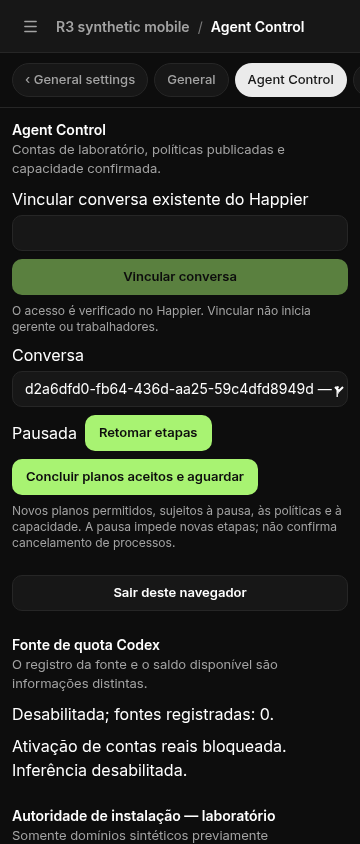
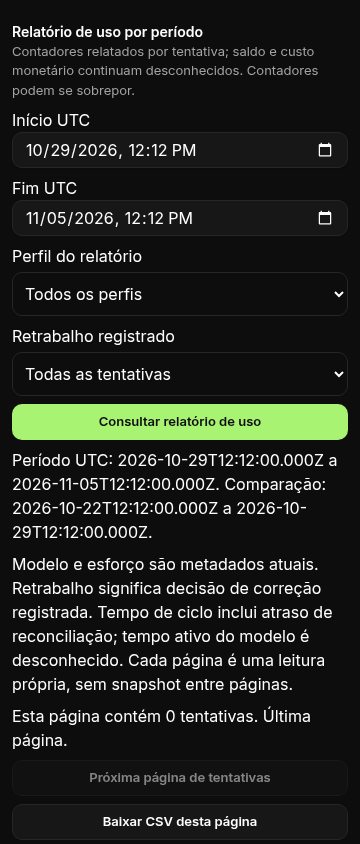
Prove authenticated usage export and bounded latency with restart diagnostics

Changed region(s): [[0.0306, 0.0, 0.9778, 1.0], [0.8861, 0.154, 0.9472, 0.1848], [0.8861, 0.2464, 0.9167, 0.2773]]

diff --git a/upstream/cezar/packages/web/src/routes/settings/agent-control-usage-report.tsx b/upstream/cezar/packages/web/src/routes/settings/agent-control-usage-report.tsx
@@ -8,20 +8,24 @@ import {agentControlFetch} from './agent-control-fetch'
 
 const exact=z.string().regex(/^-?\d+$/)
 const counters=z.object({input:exact.nullable(),output:exact.nullable(),cache:exact.nullable(),reasoning:exact.nullable()})
-const summary=z.object({attempts:z.number().int().nonnegative(),counters:z.record(z.string(),z.object({knownSubtotal:exact,completeTotal:exact.nullable(),knownAttempts:z.number().int().nonnegative(),unknownAttempts:z.number().int().nonnegative()}))})
-const reportSchema=z.object({schemaVersion:z.literal(1),scope:z.literal('reported_attempt_usage_deltas'),subscriptionBalance:z.literal('unknown'),monetaryCost:z.literal('unknown'),overlappingCounters:z.literal(true),profileMetadata:z.literal('current'),reworkDefinition:z.literal('recorded_correction_decision'),contextId:z.string().uuid(),periods:z.object({current:z.object({from:z.string(),to:z.string()}),previous:z.object({from:z.string(),to:z.string()})}),attempts:z.array(z.object({grantId:z.string().uuid(),model:z.string(),effort:z.string(),rework:z.boolean(),baseline:z.string(),counters})),comparison:z.array(z.object({profileId:z.string().uuid(),model:z.string(),effort:z.string(),rework:z.boolean(),current:summary,previous:summary,delta:counters})),nextCursor:z.string().nullable(),page:z.object({limit:z.number().int().positive(),complete:z.boolean()})})
+const summaryCounter=z.object({knownSubtotal:exact,completeTotal:exact.nullable(),knownAttempts:z.number().int().nonnegative(),unknownAttempts:z.number().int().nonnegative()})
+const summary=z.object({wallMilliseconds:summaryCounter.optional(),attempts:z.number().int().nonnegative(),counters:z.record(z.string(),z.object({knownSubtotal:exact,completeTotal:exact.nullable(),knownAttempts:z.number().int().nonnegative(),unknownAttempts:z.number().int().nonnegative()}))})
+const reportSchema=z.object({schemaVersion:z.literal(1),scope:z.literal('reported_attempt_usage_deltas'),subscriptionBalance:z.literal('unknown'),monetaryCost:z.literal('unknown'),overlappingCounters:z.literal(true),profileMetadata:z.literal('current'),reworkDefinition:z.literal('recorded_correction_decision'),timeDefinition:z.literal('completed_stage_lifecycle_wall_including_reconciliation_delay').optional(),consistency:z.literal('per_request_snapshot').optional(),contextId:z.string().uuid(),periods:z.object({current:z.object({from:z.string(),to:z.string()}),previous:z.object({from:z.string(),to:z.string()})}),attempts:z.array(z.object({grantId:z.string().uuid(),model:z.string(),effort:z.string(),rework:z.boolean(),time:z.object({wallMilliseconds:exact.nullable(),source:z.enum(['stage_lifecycle_timestamps','unknown']),activeModelMilliseconds:z.null()}).optional(),baseline:z.string(),counters})),comparison:z.array(z.object({profileId:z.string().uuid(),model:z.string(),effort:z.string(),rework:z.boolean(),current:summary,previous:summary,delta:counters,deltaWallMilliseconds:exact.nullable().optional()})),nextCursor:z.string().nullable(),page:z.object({limit:z.number().int().positive(),complete:z.boolean()})})
 type Filters={from:string;to:string;profileId:string;rework:string}
 type Page={filters:Filters;cursor:string|null;report:z.infer<typeof reportSchema>}
 const names={input:'Entrada',output:'Saída',cache:'Cache',reasoning:'Raciocínio'}
 export function usageReportParams(filters:Filters,cursor:string|null){const query=new URLSearchParams({from:filters.from,to:filters.to,rework:filters.rework,limit:'100'});if(filters.profileId)query.set('profileId',filters.profileId);if(cursor)query.set('cursor',cursor);return query.toString()}
 export function AgentControlUsageReport({contextId,profiles}:{contextId:string;profiles:{id:string;model:string;effort:string}[]}){
- const [from,setFrom]=useState(()=>new Date(Date.now()-7*86400000).toISOString().slice(0,16)),[to,setTo]=useState(()=>new Date().toISOString().slice(0,16)),[profileId,setProfileId]=useState(''),[rework,setRework]=useState('all'),[current,setCurrent]=useState<Page|null>(null)
+ const [from,setFrom]=useState(()=>new Date(Date.now()-7*86400000).toISOString().slice(0,16)),[to,setTo]=useState(()=>new Date().toISOString().slice(0,16)),[profileId,setProfileId]=useState(''),[rework,setRework]=useState('all'),[stored,setCurrent]=useState<Page|null>(null)
+ const current=stored?.report.contextId===contextId?stored:null
  const load=useMutation({mutationFn:async(input:{filters:Filters;cursor:string|null})=>{
-  if(Date.parse(input.filters.to)<=Date.parse(input.filters.from)||Date.parse(input.filters.to)-Date.parse(input.filters.from)>93*86400000)throw Error('Selecione um período positivo de até 93 dias.')
-  const response=await agentControlFetch(`/api/v1/ac/contexts/${contextId}/usage/report?${usageReportParams(input.filters,input.cursor)}`)
+  const start=Date.parse(input.filters.from),end=Date.parse(input.filters.to)
+  if(!Number.isFinite(start)||!Number.isFinite(end)||end<=start||end-start>93*86400000)throw Error('Selecione um período positivo de até 93 dias.')
+  const filters={...input.filters,from:new Date(start).toISOString(),to:new Date(end).toISOString()}
+  const response=await agentControlFetch(`/api/v1/ac/contexts/${contextId}/usage/report?${usageReportParams(filters,input.cursor)}`)
   if(!response.ok)throw Error(`Não foi possível consultar o relatório (${response.status}).`)
   const report=reportSchema.parse(await response.json());if(report.contextId!==contextId)throw Error('REPORT_CONTEXT_MISMATCH')
-  return {...input,report}
+  return {...input,filters,report}
  },onSuccess:setCurrent})
  const download=useMutation({mutationFn:async()=>{
   if(!current)throw Error('REPORT_REQUIRED')
@@ -30,7 +34,7 @@ export function AgentControlUsageReport({contextId,profiles}:{contextId:string;p
   const url=URL.createObjectURL(await response.blob()),link=document.createElement('a');link.href=url;link.download='uso-pagina.csv';document.body.append(link);try{link.click()}finally{link.remove();URL.revokeObjectURL(url)}
  }})
  return <SettingsField title="Relatório de uso por período" hint="Contadores relatados por tentativa; saldo e custo monetário continuam desconhecidos. Contadores podem se sobrepor.">
-  <form className="flex min-w-0 flex-col gap-2" onSubmit={event=>{event.preventDefault();load.mutate({filters:{from:new Date(from+'Z').toISOString(),to:new Date(to+'Z').toISOString(),profileId,rework},cursor:null})}}>
+  <form className="flex min-w-0 flex-col gap-2" onSubmit={event=>{event.preventDefault();load.mutate({filters:{from:from+':00Z',to:to+':00Z',profileId,rework},cursor:null})}}>
    <label>Início UTC<Input aria-label="Início UTC" type="datetime-local" value={from} onChange={event=>setFrom(event.target.value)} required/></label>
    <label>Fim UTC<Input aria-label="Fim UTC" type="datetime-local" value={to} onChange={event=>setTo(event.target.value)} required/></label>
    <label className="flex min-w-0 flex-col gap-1">Perfil do relatório<select aria-label="Perfil do relatório" className="min-h-11 min-w-0 max-w-full rounded-md border px-2" value={profileId} onChange={event=>setProfileId(event.target.value)}><option value="">Todos os perfis</option>{profiles.map(profile=><option key={profile.id} value={profile.id}>{profile.model} · {profile.effort}</option>)}</select></label>
@@ -40,10 +44,10 @@ export function AgentControlUsageReport({contextId,profiles}:{contextId:string;p
   {load.error&&<p role="alert">{load.error.message}</p>}
   {current&&<div className="flex min-w-0 flex-col gap-2 break-words">
    <p>Período UTC: {current.report.periods.current.from} a {current.report.periods.current.to}. Comparação: {current.report.periods.previous.from} a {current.report.periods.previous.to}.</p>
-   <p>Modelo e esforço são metadados atuais. Retrabalho significa decisão de correção registrada.</p>
-   {current.report.comparison.map(row=><div key={`${row.profileId}:${row.rework}`} className="min-w-0 rounded-md border p-2"><p>{row.model} · {row.effort} · {row.rework?'correção registrada':'demais tentativas'}</p>{Object.entries(names).map(([key,label])=><p key={key}>{label}: {row.current.counters[key]?.completeTotal??'desconhecido'}; subtotal conhecido {row.current.counters[key]?.knownSubtotal??'desconhecido'}; tentativas sem contador {row.current.counters[key]?.unknownAttempts??'desconhecido'}; diferença {row.delta[key as keyof typeof names]??'desconhecida'}.</p>)}</div>)}
+   <p>Modelo e esforço são metadados atuais. Retrabalho significa decisão de correção registrada. Tempo de ciclo inclui atraso de reconciliação; tempo ativo do modelo é desconhecido. Cada página é uma leitura própria, sem snapshot entre páginas.</p>
+   {current.report.comparison.map(row=><div key={`${row.profileId}:${row.rework}`} className="min-w-0 rounded-md border p-2"><p>{row.model} · {row.effort} · {row.rework?'correção registrada':'demais tentativas'}</p><p>Tempo de ciclo (ms): {row.current.wallMilliseconds?.completeTotal??'desconhecido'}; subtotal conhecido {row.current.wallMilliseconds?.knownSubtotal??'desconhecido'}; diferença {row.deltaWallMilliseconds??'desconhecida'}.</p>{Object.entries(names).map(([key,label])=><p key={key}>{label}: {row.current.counters[key]?.completeTotal??'desconhecido'}; subtotal conhecido {row.current.counters[key]?.knownSubtotal??'desconhecido'}; tentativas sem contador {row.current.counters[key]?.unknownAttempts??'desconhecido'}; diferença {row.delta[key as keyof typeof names]??'desconhecida'}.</p>)}</div>)}
    <p role="status">Esta página contém {current.report.attempts.length} tentativas. {current.report.page.complete?'Última página.':'Há páginas seguintes.'}</p>
-   {current.report.attempts.map(attempt=><div key={attempt.grantId} className="min-w-0 rounded-md border p-2"><p>{attempt.model} · {attempt.effort} · {attempt.rework?'correção registrada':'tentativa'}</p>{Object.entries(names).map(([key,label])=><p key={key}>{label}: {attempt.counters[key as keyof typeof names]??'desconhecido'}</p>)}</div>)}
+   {current.report.attempts.map(attempt=><div key={attempt.grantId} className="min-w-0 rounded-md border p-2"><p>{attempt.model} · {attempt.effort} · {attempt.rework?'correção registrada':'tentativa'}</p><p>Tempo de ciclo (ms): {attempt.time?.wallMilliseconds??'desconhecido'}; tempo ativo do modelo: desconhecido.</p>{Object.entries(names).map(([key,label])=><p key={key}>{label}: {attempt.counters[key as keyof typeof names]??'desconhecido'}</p>)}</div>)}
    <Button variant="outline" disabled={!current.report.nextCursor||load.isPending} onClick={()=>load.mutate({filters:current.filters,cursor:current.report.nextCursor})}>Próxima página de tentativas</Button>
    <Button variant="outline" disabled={download.isPending} onClick={()=>download.mutate()}>Baixar CSV desta página</Button>
    <p className="text-xs">O CSV contém uma página, com sua continuação explícita; não é uma exportação integral. Contadores desconhecidos permanecem vazios no CSV.</p>

diff --git a/upstream/cezar/packages/web/src/routes/settings/agent-control-usage-report.test.tsx b/upstream/cezar/packages/web/src/routes/settings/agent-control-usage-report.test.tsx
@@ -16,3 +16,10 @@ it('keeps unknown counters distinct from zero and continues with original filter
 it('encodes page filters explicitly for both JSON and CSV routes',()=>{
  expect(new URLSearchParams(usageReportParams({from:'2026-11-01T00:00:00Z',to:'2026-11-02T00:00:00Z',profileId,rework:'exclude'},'cursor+/=')).get('cursor')).toBe('cursor+/=')
 })
+
+it('hides a previous context report and its download actions after switching context',async()=>{
+ vi.stubGlobal('fetch',vi.fn(async()=>Response.json({schemaVersion:1,scope:'reported_attempt_usage_deltas',subscriptionBalance:'unknown',monetaryCost:'unknown',overlappingCounters:true,profileMetadata:'current',reworkDefinition:'recorded_correction_decision',contextId,periods:{current:{from:'2026-11-01T00:00:00Z',to:'2026-11-02T00:00:00Z'},previous:{from:'2026-10-31T00:00:00Z',to:'2026-11-01T00:00:00Z'}},attempts:[],comparison:[],nextCursor:null,page:{limit:100,complete:true}})))
+ const cache=new QueryClient({defaultOptions:{mutations:{retry:false}}}),view=render(<QueryClientProvider client={cache}><AgentControlUsageReport contextId={contextId} profiles={[]}/></QueryClientProvider>)
+ fireEvent.click(screen.getByRole('button',{name:'Consultar relatório de uso'}));expect(await screen.findByRole('button',{name:'Baixar CSV desta página'})).toBeTruthy()
+ view.rerender(<QueryClientProvider client={cache}><AgentControlUsageReport contextId={profileId} profiles={[]}/></QueryClientProvider>);expect(screen.queryByRole('button',{name:'Baixar CSV desta página'})).toBeNull();expect(screen.queryByText(/Esta página contém/)).toBeNull()
+})

diff --git a/docs/implementation/R3-UI.md b/docs/implementation/R3-UI.md
@@ -10,9 +10,9 @@ O painel de autoridade exige um UUID de domínio de laboratório previamente cad
 
 `scripts/r3-ui-authenticated-browser.mjs` cria exclusivamente uma bancada descartável: PostgreSQL novo com label `org.agent-control.purpose=ac-r3-ui-disposable`, portas livres em loopback, Happier light real com SQLite e identidade criptográfica sintética, repositórios Git novos e `server-main.ts serve` real com o SPA managed compilado. O teste usa o endpoint de sessão de produção: o backend consulta o perfil no Happier canônico antes de emitir o cookie HttpOnly. Não substitui o verificador por função que aceita um principal fixo. A conversa criptografada existe no Happier e sua posse é verificada pela rota de vinculação do produto.
 
-Em Chrome com viewports 360 e 390, recusa leituras sem autenticação, abre a tela de login, autentica, vincula a conversa existente, verifica diagnóstico único e ausência de overflow horizontal e faz logout, depois recusando novamente o cookie revogado. Em 360, recusa comando assinado por dispositivo não cadastrado (403), ativa o dispositivo por bootstrap de laboratório, publica política em duas abas com a mesma revisão (segunda recebe 409 `POLICY_CONFLICT`), reverte a política com o botão explícito e confirma no PostgreSQL a sequência 10→2→10 e igualdade exata dos snapshots 1 e 3. Pausa a conversa por comando assinado, reinicia o backend e verifica a pausa; cadastra outro projeto pela tela e confirma sua presença depois de segundo reinício. As tabelas de intents de execução, operações, outbox e concessões permanecem vazias.
+Em Chrome com viewports 360 e 390, recusa leituras sem autenticação, abre a tela de login, autentica, vincula a conversa existente, verifica diagnóstico único e ausência de overflow horizontal e faz logout, depois recusando novamente o cookie revogado. Em 360, recusa comando assinado por dispositivo não cadastrado (403), ativa o dispositivo por bootstrap de laboratório, publica política em duas abas com a mesma revisão (segunda recebe 409 `POLICY_CONFLICT`), reverte a política com o botão explícito e confirma no PostgreSQL a sequência 10→2/3→10 e igualdade exata dos snapshots 1 e 3. Pausa a conversa por comando assinado, reinicia o backend e verifica a pausa; cadastra outro projeto pela tela e confirma sua presença depois de segundo reinício. As tabelas de intents de execução, operações, outbox e concessões permanecem vazias.
 
-A última amostra local registrou aceitação da pausa em 410 ms e projeção em 812 ms. A bancada mede tempo local do comando de pausa até a resposta e até sua projeção na tela; é uma única amostra em loopback e não homologação RNF-12. O token sintético só passa pelo cliente HTTP do Playwright e permanece no armazenamento de sessão cifrado no servidor. O teste não percorre a interface nativa de aprovação/pairing do Happier. Não há conta real, inferência, worker, deploy, Android físico ou migração operacional. Somente o esquema do PostgreSQL descartável recebe as migrações do produto.
+A prova adicional opcional `AC_R3_UI_LATENCY=1` mede doze comandos assinados reais, mantendo o estado inicial de pausa após o número par de alternâncias. O JSON `r3-ui-latency.json` separa aceitação, projeção DOM, autenticação e aplicação HTTP; não mede o canal de eventos nem provedor externo. A bancada mede tempo local do comando de pausa até a resposta e até sua projeção na tela; é uma única amostra em loopback e não homologação RNF-12. O token sintético só passa pelo cliente HTTP do Playwright e permanece no armazenamento de sessão cifrado no servidor. O teste não percorre a interface nativa de aprovação/pairing do Happier. Não há conta real, inferência, worker, deploy, Android físico ou migração operacional. Somente o esquema do PostgreSQL descartável recebe as migrações do produto.
 
 ## Checks e limites
 
@@ -21,11 +21,19 @@ Executar com Node 22.23.3 no PATH:
 - `npm run build:server` em `upstream/cezar` prepara o Cezar local.
 - `VITE_AGENT_CONTROL_MANAGED=1 npm run build --prefix upstream/cezar/packages/web` compila o SPA completo; aviso de chunk acima de 500 KiB permanece.
 - `npm run typecheck --prefix upstream/cezar/packages/web` usa o compilador normal.
-- `npm run test --prefix upstream/cezar/packages/web -- src/routes/settings/agent-control-installation-authority.test.tsx src/routes/settings/agent-control-remote-return.test.tsx src/routes/settings/agent-control-policy-editor.test.tsx src/routes/settings/agent-control-project-admin.test.tsx`: 24 testes passaram, zero skips. As contraprovas de transporte desses testes são fixtures e distinguem ACK incerto, identidade divergente e retomada após remount.
+- `npm run test --prefix upstream/cezar/packages/web -- src/routes/settings/agent-control-installation-authority.test.tsx src/routes/settings/agent-control-remote-return.test.tsx src/routes/settings/agent-control-policy-editor.test.tsx src/routes/settings/agent-control-project-admin.test.tsx src/routes/settings/agent-control-grant-selection.test.tsx src/routes/settings/agent-control-capacity-waits.test.tsx src/routes/settings/agent-control-usage-report.test.tsx`: 25 testes passaram, zero skips. As contraprovas de transporte desses testes são fixtures e distinguem ACK incerto, identidade divergente e retomada após remount.
 - `node --import tsx scripts/r3-ui-authenticated-browser.mjs`: prova completa acima; resultado em `docs/validation/evidence/r3-ui-authenticated-browser.log`, imagens `r3-ui-mobile-360.png` e `r3-ui-mobile-390.png`.
 
-A prova autenticada cobre autenticação, conversa, controle, cadastro de projetos e autoridade de laboratório. Depois de criar explicitamente um domínio sintético pela API de serviço de laboratório, o navegador assina transferência para a segunda instalação, rollback à primeira e retomada; confirma épocas 1→2→3 e holder/pausa no PostgreSQL. Também publica e reutiliza um template pela tela, confirmando a cópia congelada de seu snapshot no banco. As superfícies de devolução SSH e relatório de uso ainda aguardam prova de browser com seus backends; os testes de componentes não substituem essa integração. O browser não executa devolução SSH. O relatório de uso oferece filtros UTC/perfil/correção registrada, comparação com período anterior, contadores inteiros exatos como strings e desconhecidos explícitos, paginação preservando os filtros originais e download CSV declarado como uma página.
+A prova autenticada cobre autenticação, conversa, controle, cadastro de projetos e autoridade de laboratório. Depois de criar explicitamente um domínio sintético pela API de serviço de laboratório, o navegador assina transferência para a segunda instalação, rollback à primeira e retomada; confirma épocas 1→2→3 e holder/pausa no PostgreSQL. Também publica e reutiliza um template pela tela, confirmando a cópia congelada de seu snapshot no banco. O relatório de uso foi consultado pelo browser nos dois viewports usando os endpoints reais JSON e CSV autenticados. O relatório desse laboratório está vazio: a prova verifica autenticação, contrato e download de página, e os testes de componente verificam contadores desconhecidos versus zero, continuidade com filtros originais e isolamento na troca de contexto. A devolução SSH continua sem prova de browser com seu backend; o teste de componente não substitui essa integração. O browser não executa devolução SSH. O relatório de uso oferece filtros UTC/perfil/correção registrada, comparação com período anterior, contadores inteiros exatos como strings e desconhecidos explícitos, paginação preservando os filtros originais e download CSV declarado como uma página.
 
 RF-36 permanece dependente da implementação do RPC tipado de configuração no transporte de conversa. Não se promove esse trabalho a aceite exaustivo dos requisitos.
 
 As dependências ausentes do Happier foram ligadas somente nesta worktree pelo helper reversível e manifesto próprio `/tmp/ac-r3-20261105/ui-deps-manifest.json`; o cache permaneceu intacto. A bancada elimina somente o container criado e validado por seu nome/label, seus filhos e diretório temporário. Nenhum serviço preexistente é usado ou encerrado.
+
+## Integração final, falhas delimitadas e reinício
+
+O delta final usa os backends de quota/autoridade e relatório das outras frentes e os hooks de tempo do runtime. O comando completo com `AC_R3_UI_LATENCY=1` passou nos dois viewports. A fonte de quota desabilitada foi lida pelo endpoint real. O laboratório mantém limite de leitura de perfil Happier em 10.000 requisições/minuto, definido somente no ambiente do processo sintético; isso não é medição da configuração padrão ou alteração operacional.
+
+Durante as iterações da bancada houve timeouts intermitentes de ligação após reinício/novo browser, e uma leitura de administração indisponível depois do stress. A causa desses eventos **não foi estabelecida**. Não se atribui a rate limit: a instrumentação de uma falha registrou zero respostas upstream 429, mesmo com limite de laboratório ampliado. O teste passou a verificar explicitamente sessão emitida (200), resposta real de vínculo (201) e projeção do contexto, em vez de inferir tudo pela presença posterior de um botão. Outra corrida distinta de fixture foi resolvida disparando as duas publicações concorrentes juntas; polling legítimo do painel podia desabilitar o botão da aba obsoleta entre cliques sequenciais. A proteção de revisão do produto permaneceu ativa e os dois resultados concorrentes são 200 e 409.
+
+A execução completa final é evidência finita positiva; não prova que os timeouts intermitentes anteriores foram corrigidos no produto. O modo `AC_R3_UI_RESTART_LINK_ONLY=1` isola quatro reinícios reais, cada um com browser/cookie novo, autenticação real, vínculo idempotente da mesma conversa e uma única linha de contexto, sem os doze comandos de stress. Seu log fica em `r3-ui-restart-link-probe.log`; o ensaio não substitui o cenário de stress. Os erros de HTTP publicados pela fixture contêm apenas caminho de API, status e códigos fechados; tokens, provas e credenciais não são impressos.
